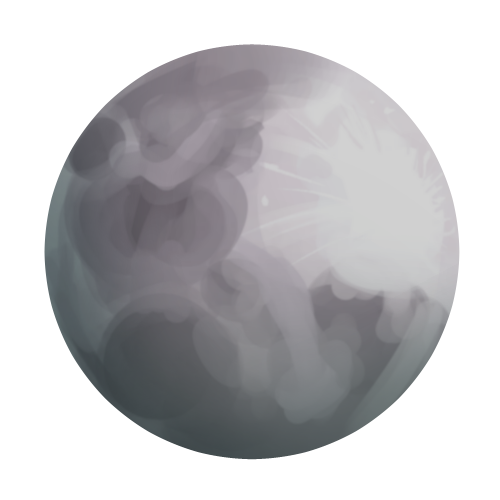
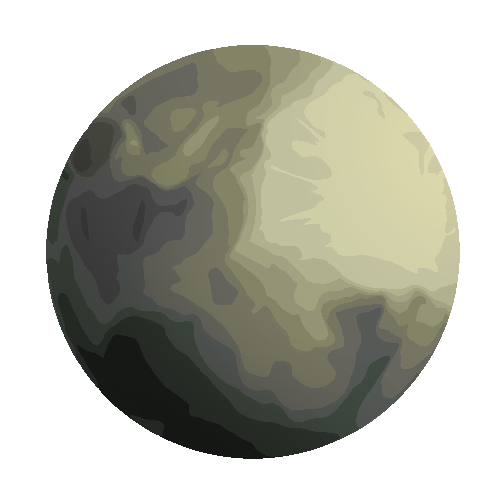
+ Resprited and Adjusted the Moon in Orator's background

diff --git a/Content/Skies/OratorSky.cs b/Content/Skies/OratorSky.cs
@@ -56,7 +56,8 @@ namespace Windfall.Content.Skies
                     spriteBatch.Draw(t2D, pos, new Rectangle(0, 0, t2D.Width, t2D.Height), Color.Yellow * star.twinkle * colorMult, star.rotation, origin, star.scale * star.twinkle, SpriteEffects.None, 0f);
                 }
                 #endregion
-                               
+
+                #region Moon Movement
                 float goalRatio = moveRatio;
 
                 if (NPC.AnyNPCs(ModContent.NPCType<TheOrator>()) && ModContent.GetInstance<OratorBossBar>() != null)
@@ -82,9 +83,21 @@ namespace Windfall.Content.Skies
                         moveRatio += 0.00005f;
                     moveRatio = Clamp(moveRatio, 0.1f, goalRatio);
                 }
+                #endregion
 
+                #region Back Clouds
+                Texture2D CloudBack = (Texture2D)ModContent.Request<Texture2D>("Windfall/Assets/Skies/OratorCloudsBack", AssetRequestMode.ImmediateLoad);
+                float backgroundOffset = GetBackgroundOffset(0.1f, CloudBack);
+                float cloudHeight = bgTop * 2 + (Main.screenHeight * 1.25f);
+                float cloudScale = 0.45f;
 
-                Vector2 position = new(Main.screenWidth / 2, bgTop + Lerp(Main.screenHeight / 7, Main.screenHeight / 1.5f, CalamityUtils.SineOutEasing(moveRatio, 1)));
+                spriteBatch.Draw(CloudBack, new(GetBoundedX(backgroundOffset, cloudScale), cloudHeight), CloudBack.Frame(), Color.Gray * opacity, 0f, new(CloudBack.Width / 2, CloudBack.Height / 2), cloudScale, SpriteEffects.None, 0f);
+                spriteBatch.Draw(CloudBack, new(GetBoundedX((backgroundOffset - (CloudBack.Width * (cloudScale))), cloudScale), cloudHeight), CloudBack.Frame(), Color.Gray * opacity, 0f, new(CloudBack.Width / 2, CloudBack.Height / 2), cloudScale, SpriteEffects.None, 0f);
+                spriteBatch.Draw(CloudBack, new(GetBoundedX((backgroundOffset + (CloudBack.Width * (cloudScale))), cloudScale), cloudHeight), CloudBack.Frame(), Color.Gray * opacity, 0f, new(CloudBack.Width / 2, CloudBack.Height / 2), cloudScale, SpriteEffects.None, 0f);
+                #endregion
+
+                #region Moon
+                Vector2 position = new(Main.screenWidth / 2, bgTop + Lerp(Main.screenHeight / 7, Main.screenHeight / 1.25f, CalamityUtils.SineOutEasing(moveRatio, 1)));
                 Texture2D bloomCircle = ModContent.Request<Texture2D>("CalamityMod/Particles/LargeBloom", AssetRequestMode.ImmediateLoad).Value;
 
                 spriteBatch.UseBlendState(BlendState.Additive);
@@ -99,17 +112,9 @@ namespace Windfall.Content.Skies
                 Texture2D moon = ModContent.Request<Texture2D>("Windfall/Assets/Skies/OratorMoon", AssetRequestMode.ImmediateLoad).Value;
                 halfSizeTexture = new(moon.Width / 2, moon.Height / 2);
                 spriteBatch.Draw(moon, position, null, Color.White * opacity, 0f, halfSizeTexture, 1.5f * CalamityUtils.SineInEasing(moveRatio, 1) + 0.125f, SpriteEffects.None, 0f);
+                #endregion
 
-                #region Clouds              
-                float cloudHeight = bgTop * 2 + (Main.screenHeight * 1.25f);
-                float cloudScale = 0.45f;
-
-                Texture2D CloudBack = (Texture2D)ModContent.Request<Texture2D>("Windfall/Assets/Skies/OratorCloudsBack", AssetRequestMode.ImmediateLoad);
-                float backgroundOffset = GetBackgroundOffset(0.1f, CloudBack);
-                spriteBatch.Draw(CloudBack, new(GetBoundedX(backgroundOffset, cloudScale), cloudHeight), CloudBack.Frame(), Color.Gray * opacity, 0f, new(CloudBack.Width / 2, CloudBack.Height / 2), cloudScale, SpriteEffects.None, 0f);
-                spriteBatch.Draw(CloudBack, new(GetBoundedX((backgroundOffset - (CloudBack.Width * (cloudScale))), cloudScale), cloudHeight), CloudBack.Frame(), Color.Gray * opacity, 0f, new(CloudBack.Width / 2, CloudBack.Height / 2), cloudScale, SpriteEffects.None, 0f);
-                spriteBatch.Draw(CloudBack, new(GetBoundedX((backgroundOffset + (CloudBack.Width * (cloudScale))), cloudScale), cloudHeight), CloudBack.Frame(), Color.Gray * opacity, 0f, new(CloudBack.Width / 2, CloudBack.Height / 2), cloudScale, SpriteEffects.None, 0f);
-
+                #region Front Clouds                                          
                 Texture2D CloudMiddle = (Texture2D)ModContent.Request<Texture2D>("Windfall/Assets/Skies/OratorCloudsMiddle", AssetRequestMode.ImmediateLoad);
                 backgroundOffset = GetBackgroundOffset(0.2f, CloudMiddle);
                 spriteBatch.Draw(CloudMiddle, new(GetBoundedX(backgroundOffset, cloudScale), cloudHeight), CloudMiddle.Frame(), Color.Gray * opacity, 0f, new(CloudMiddle.Width / 2, CloudMiddle.Height / 2), cloudScale, SpriteEffects.None, 0f);

diff --git a/Content/UI/MenuThemes/Selenic/SelenicMenu.cs b/Content/UI/MenuThemes/Selenic/SelenicMenu.cs
@@ -46,25 +46,7 @@ namespace Windfall.Content.UI.MenuThemes.Selenic
             }
             #endregion
 
-            //spriteBatch.Draw(TextureAssets.BlackTile.Value, new Rectangle(0, 0, Main.screenWidth * 2, Main.screenHeight * 2), Color.Black * (opacity / 2f));
-
-            Vector2 position = new(Main.screenWidth / 2, bgTop + Main.screenHeight / 1.5f);
-            Texture2D bloomCircle = ModContent.Request<Texture2D>("CalamityMod/Particles/LargeBloom", AssetRequestMode.ImmediateLoad).Value;
-
-            spriteBatch.UseBlendState(BlendState.Additive);
-            Vector2 halfSizeTexture = new(bloomCircle.Width / 2, bloomCircle.Height / 2);
-            spriteBatch.Draw(bloomCircle, position, null, oratorGreen * ((float)(Math.Sin(counter / 20D) / 4f + 0.75f)), 0f, bloomCircle.Size() / 2f, 2.5f + 0.3f, SpriteEffects.None, 0f);
-
-            Texture2D bloomRing = ModContent.Request<Texture2D>("Windfall/Assets/Skies/OratorMoonBloom2", AssetRequestMode.ImmediateLoad).Value;
-            halfSizeTexture = new(bloomRing.Width / 2, bloomRing.Height / 2);
-            spriteBatch.Draw(bloomRing, position, null, Color.LightCyan, counter / 100f, halfSizeTexture, 1.5f + 0.1375f, SpriteEffects.None, 0f);
-
-            spriteBatch.UseBlendState(BlendState.NonPremultiplied);
-            Texture2D moon = ModContent.Request<Texture2D>("Windfall/Assets/Skies/OratorMoon", AssetRequestMode.ImmediateLoad).Value;
-            halfSizeTexture = new(moon.Width / 2, moon.Height / 2);
-            spriteBatch.Draw(moon, position, null, Color.White, 0f, halfSizeTexture, 1.5f + 0.125f, SpriteEffects.None, 0f);
-
-            #region Clouds              
+            #region Back Clouds
             float cloudHeight = bgTop * 2 + (Main.screenHeight * 1.25f);
             float cloudScale = 0.45f;
 
@@ -73,7 +55,24 @@ namespace Windfall.Content.UI.MenuThemes.Selenic
             spriteBatch.Draw(CloudBack, new Vector2(GetBoundedX(backgroundOffset, cloudScale), cloudHeight), CloudBack.Frame(), Color.Gray, 0f, new Vector2(CloudBack.Width / 2, CloudBack.Height / 2), cloudScale, SpriteEffects.None, 0f);
             spriteBatch.Draw(CloudBack, new Vector2(GetBoundedX((backgroundOffset - (CloudBack.Width * (cloudScale))), cloudScale), cloudHeight), CloudBack.Frame(), Color.Gray, 0f, new Vector2(CloudBack.Width / 2, CloudBack.Height / 2), cloudScale, SpriteEffects.None, 0f);
             spriteBatch.Draw(CloudBack, new Vector2(GetBoundedX((backgroundOffset + (CloudBack.Width * (cloudScale))), cloudScale), cloudHeight), CloudBack.Frame(), Color.Gray, 0f, new Vector2(CloudBack.Width / 2, CloudBack.Height / 2), cloudScale, SpriteEffects.None, 0f);
+            #endregion
 
+            Vector2 position = new(Main.screenWidth / 2, bgTop + Main.screenHeight / 1.25f);
+            Texture2D bloomCircle = ModContent.Request<Texture2D>("CalamityMod/Particles/LargeBloom", AssetRequestMode.ImmediateLoad).Value;
+
+            spriteBatch.UseBlendState(BlendState.Additive);
+            spriteBatch.Draw(bloomCircle, position, null, oratorGreen * ((float)(Math.Sin(counter / 20D) / 4f + 0.75f)), 0f, bloomCircle.Size() / 2f, 2.5f + 0.3f, SpriteEffects.None, 0f);
+
+            Texture2D bloomRing = ModContent.Request<Texture2D>("Windfall/Assets/Skies/OratorMoonBloom2", AssetRequestMode.ImmediateLoad).Value;
+            Vector2 halfSizeTexture = new(bloomRing.Width / 2, bloomRing.Height / 2);
+            spriteBatch.Draw(bloomRing, position, null, Color.LightCyan, counter / 100f, halfSizeTexture, 1.5f + 0.1375f, SpriteEffects.None, 0f);
+
+            spriteBatch.UseBlendState(BlendState.NonPremultiplied);
+            Texture2D moon = ModContent.Request<Texture2D>("Windfall/Assets/Skies/OratorMoon", AssetRequestMode.ImmediateLoad).Value;
+            halfSizeTexture = new(moon.Width / 2, moon.Height / 2);
+            spriteBatch.Draw(moon, position, null, Color.White, 0f, halfSizeTexture, 1.5f + 0.125f, SpriteEffects.None, 0f);
+
+            #region Front Clouds                        
             Texture2D CloudMiddle = (Texture2D)ModContent.Request<Texture2D>("Windfall/Assets/Skies/OratorCloudsMiddle", AssetRequestMode.ImmediateLoad);
             backgroundOffset = GetBackgroundOffset(0.2f, CloudMiddle);
             spriteBatch.Draw(CloudMiddle, new Vector2(GetBoundedX(backgroundOffset, cloudScale), cloudHeight), CloudMiddle.Frame(), Color.Gray, 0f, new Vector2(CloudMiddle.Width / 2, CloudMiddle.Height / 2), cloudScale, SpriteEffects.None, 0f);
